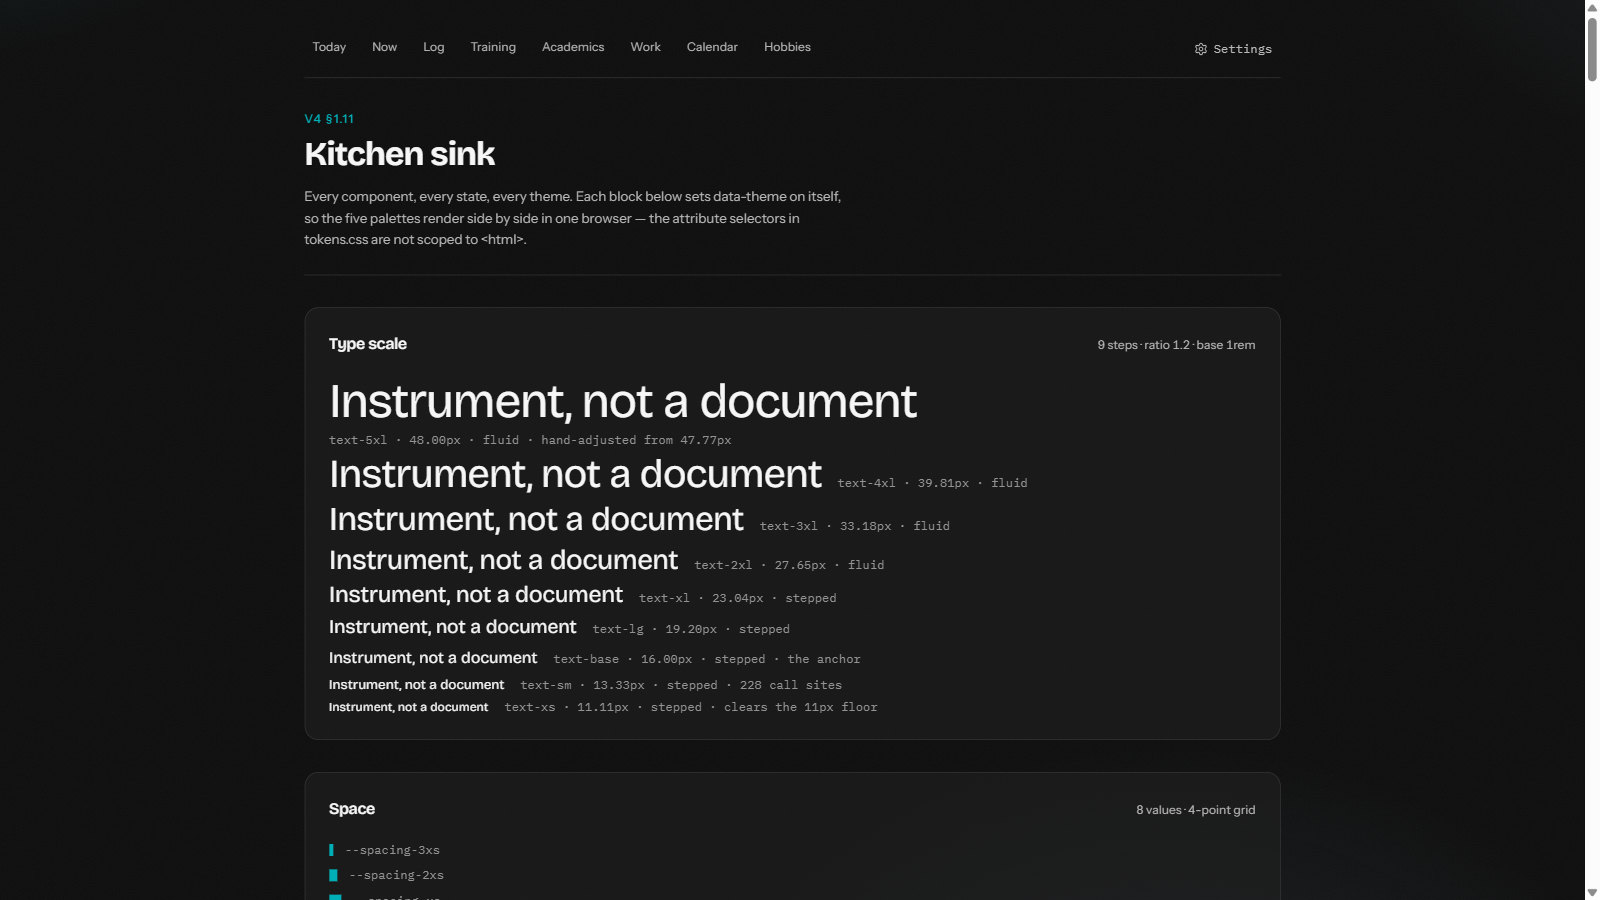
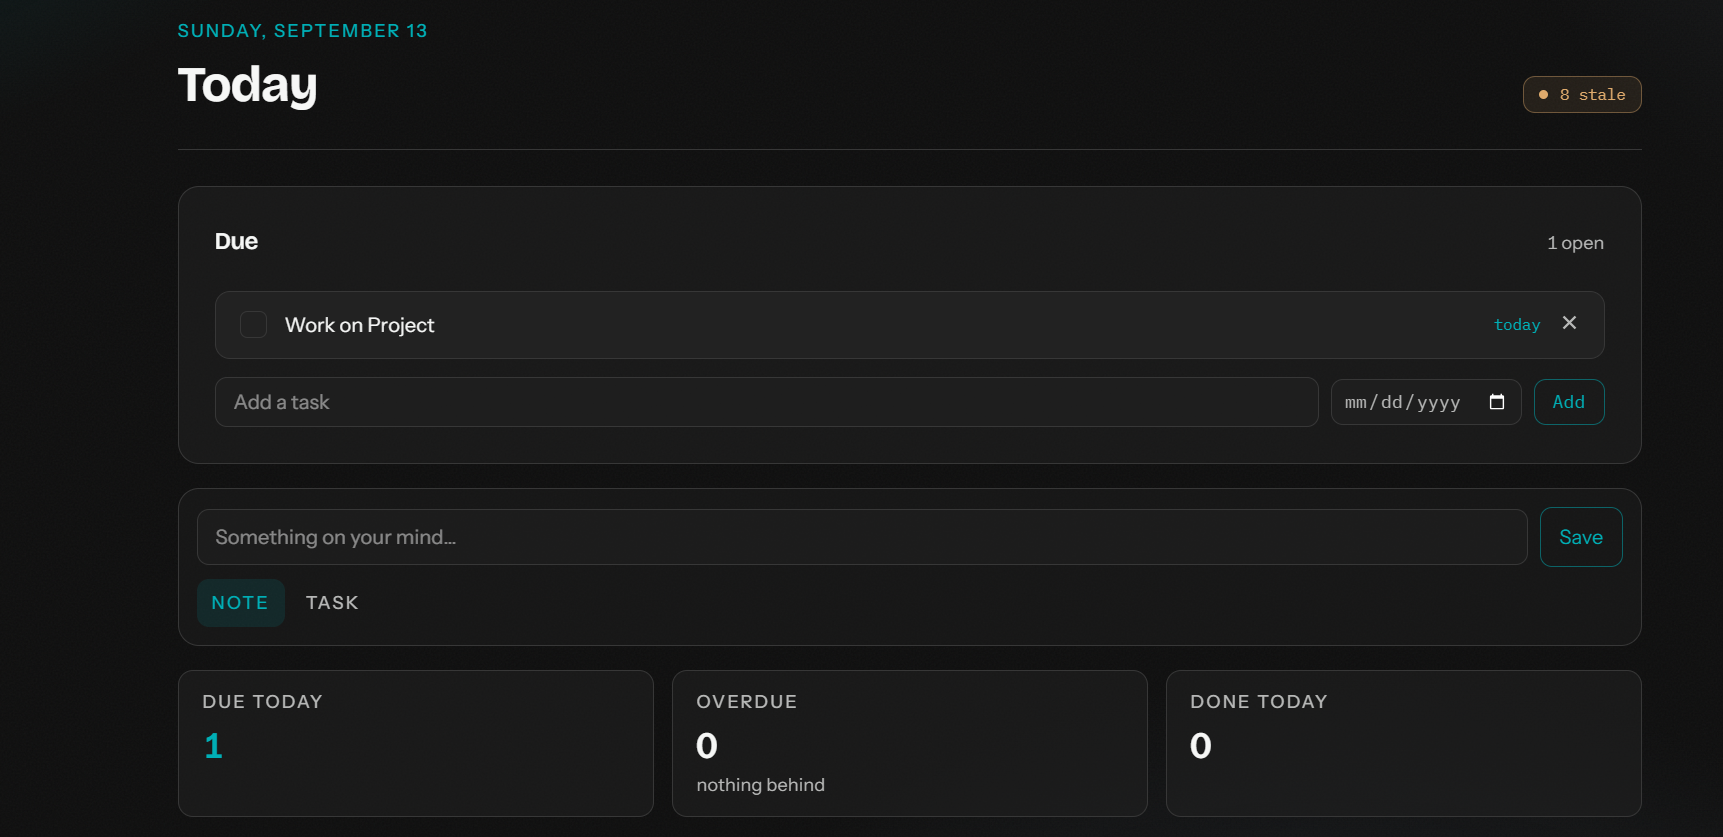
Swap the 2ndMind screenshot to the Today dashboard
Replaces the kitchen-sink capture from the previous commit with the
private Today page Victor provided — task list, quick-capture, the
day's stats, all placeholder content. See the updated D-247.

diff --git a/web/src/app/tokens.css b/web/src/app/tokens.css
@@ -5,7 +5,7 @@
  * the two rules that produce them. `npm run tokens:check` fails if this file is stale, and
  * the test suite runs that check.
  *
- * Written 2026-09-12.
+ * Written 2026-09-13.
  */
 
 /* Generated: every dark-family theme. Adding one updates this automatically. */

diff --git a/web/src/app/scale.css b/web/src/app/scale.css
@@ -6,7 +6,7 @@
  *
  * `npm run scale:check` fails if this file is stale, and the test suite runs that check.
  *
- * Written 2026-09-12.
+ * Written 2026-09-13.
  */
 
 @theme {

diff --git a/web/DECISIONS.md b/web/DECISIONS.md
@@ -51,24 +51,28 @@ are actually in `public/assets/resumes/` at request time, so the fix is the file
 to target one resume variant, anything else to serve as the general fallback) and run
 `node scripts/sync-vault-assets.mjs` (or let `predev`/`prebuild` do it).
 
-### D-247 · The 2ndMind project card shows `/private/kitchen-sink`, not `/now`
+### D-247 · The 2ndMind project card shows `/private/today`, not `/now`
 
 **Decision.** `context/assets/2ndmind.png` — previously a screenshot of the public `/now` page —
-is replaced with a screenshot of `/private/kitchen-sink` (D-201's all-themes component gallery),
-scrolled to the top: private nav, the "Kitchen sink" header, and the type-scale panel. No code
-change; `image: /assets/2ndmind.png` in `2ndmind.md` frontmatter is unchanged.
+is replaced with a screenshot of the private `Today` dashboard (task list, quick-capture, the
+day's stats). No code change; `image: /assets/2ndmind.png` in `2ndmind.md` frontmatter is
+unchanged. (An intermediate version briefly used `/private/kitchen-sink`, D-201's all-themes
+component gallery, before Victor supplied this one instead.)
 
 **Why.** Victor's ask — the project's own screenshot was the *public* half of the site, which
-told a visitor nothing about the private app the project description is actually about. Kitchen
-sink is real private-app UI (behind the same WebAuthn gate as everything else under `/private`)
-but is deliberately a component/theme showcase with no personal data on it — no training log, no
-tasks, no health metrics — so it demonstrates the private app exists and is designed with the
-same care, without revealing what Victor actually logs in it.
+told a visitor nothing about the private app the project description is actually about. The
+capture used shows only placeholder content (a generic "Work on Project" task, zeroed stats), so
+it demonstrates the private app's actual daily-use surface without revealing what Victor actually
+logs in it.
 
 **How to reverse.** Drop a different screenshot in at `context/assets/2ndmind.png` (any private
 route works equally well now that D-247 has established the precedent) and run
-`node scripts/sync-vault-assets.mjs`. Note for next time: the Next.js dev server appears to hold
-`public/` image bytes in memory independent of `.next/cache/images/` — a `predev` re-sync is not
+`node scripts/sync-vault-assets.mjs`. Note for next time: what looked like the Next.js dev server
+holding `public/` image bytes in memory (surviving both a `.next/cache/images` clear and a full
+process restart) turned out to be the *verification browser's* own disk cache, not the app —
+`curl` against the same `/_next/image` URL returned the new bytes immediately every time. A
+one-off tool like Playwright reused across a long session can go stale in ways a real visitor's
+browser won't; when a swapped image "won't update," check with `curl` before suspecting the app.
 enough to see a replaced asset while the dev server keeps running; restart it.
 
 ### D-242 · Duration is typed as m:ss everywhere it's logged or edited; `RecentSessions` gained the fields it never had
